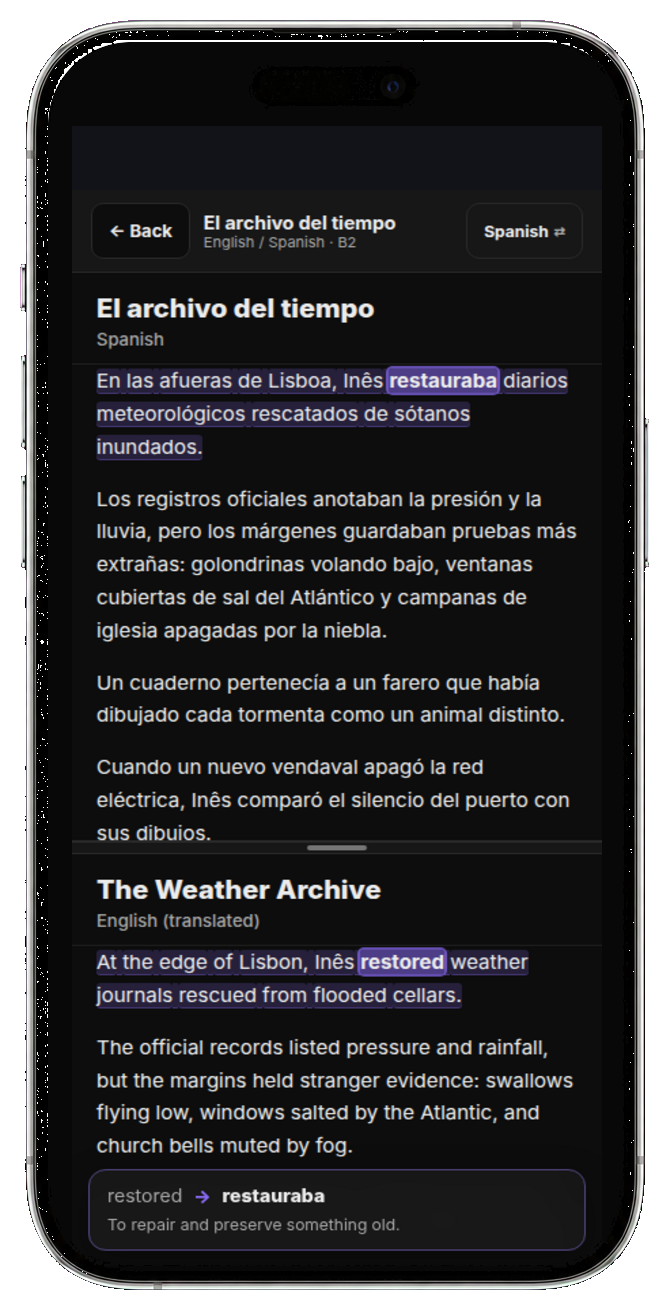
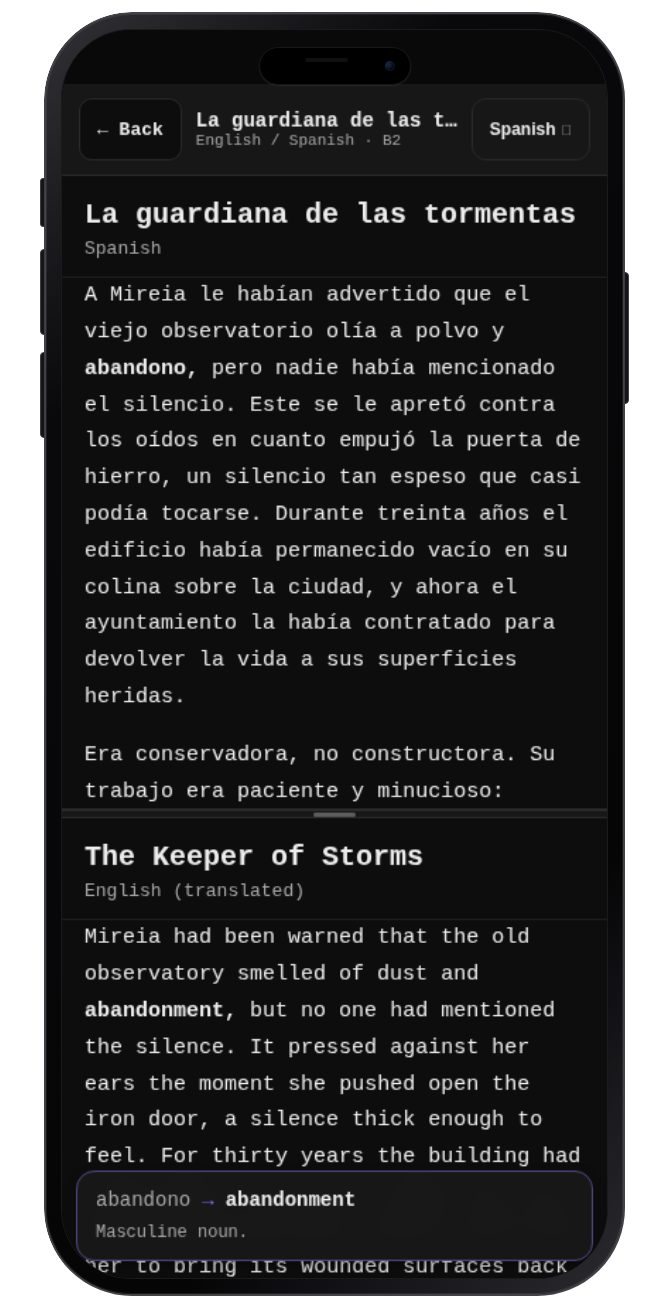
Refresh Tandem and social previews

diff --git a/index.html b/index.html
@@ -14,11 +14,15 @@
   <meta property="og:url" content="https://mobius-os.github.io/">
   <meta property="og:title" content="Möbius OS: Build the apps that fit your life">
   <meta property="og:description" content="Build useful personal apps, use them across phone and web, and improve the system with every loop.">
-  <meta property="og:image" content="https://mobius-os.github.io/assets/product/editor-continuity.png">
+  <meta property="og:image" content="https://mobius-os.github.io/assets/social-preview.png?v=20260716">
+  <meta property="og:image:width" content="1200">
+  <meta property="og:image:height" content="630">
+  <meta property="og:image:alt" content="Möbius OS with Atlas on the web and Tandem on an iPhone">
   <meta name="twitter:card" content="summary_large_image">
   <meta name="twitter:title" content="Möbius OS: Build the apps that fit your life">
   <meta name="twitter:description" content="Build useful personal apps, use them across phone and web, and improve the system with every loop.">
-  <meta name="twitter:image" content="https://mobius-os.github.io/assets/product/editor-continuity.png">
+  <meta name="twitter:image" content="https://mobius-os.github.io/assets/social-preview.png?v=20260716">
+  <meta name="twitter:image:alt" content="Möbius OS with Atlas on the web and Tandem on an iPhone">
   <link rel="preconnect" href="https://rsms.me/">
   <link rel="stylesheet" href="https://rsms.me/inter/inter.css">
   <link rel="stylesheet" href="style.css">
@@ -32,7 +36,7 @@
     "operatingSystem": "Docker, Linux, PWA",
     "description": "An open-source, self-hosted AI workspace where people and agents build useful apps and improve the system over time.",
     "url": "https://mobius-os.github.io/",
-    "image": "https://mobius-os.github.io/assets/product/editor-continuity.png",
+    "image": "https://mobius-os.github.io/assets/social-preview.png?v=20260716",
     "screenshot": "https://mobius-os.github.io/assets/product/editor-continuity.png",
     "codeRepository": "https://github.com/mobius-os/mobius",
     "license": "https://opensource.org/licenses/MIT",
@@ -136,7 +140,7 @@
       <div class="app-gallery">
         <article class="phone-story">
           <figure class="iphone-mockup showcase-phone">
-            <img src="assets/product/tandem-iphone.png" alt="Tandem showing a bilingual story with the word restored selected and translated" loading="lazy" width="669" height="1310">
+            <img src="assets/product/tandem-iphone.png" alt="Tandem showing a bilingual story with the word abandonment selected and translated" loading="lazy" width="669" height="1310">
           </figure>
           <p class="app-label">Tandem · Language learning</p>
           <h3>Read a richer story in two languages.</h3>

diff --git a/services/mobius_launch/app.py b/services/mobius_launch/app.py
@@ -119,6 +119,7 @@ os.makedirs(DATA_DIR, exist_ok=True)
 STATIC_DIR = os.path.join(os.path.dirname(__file__), "static")
 LOGO_FILENAME = "moebius.png"
 PREVIEW_FILENAME = "app-store.png"
+SOCIAL_PREVIEW_FILENAME = "social-preview.png"
 
 
 def static_asset_version(filename):
@@ -131,6 +132,7 @@ def static_asset_version(filename):
 
 LOGO_VERSION = static_asset_version(LOGO_FILENAME)
 PREVIEW_VERSION = static_asset_version(PREVIEW_FILENAME)
+SOCIAL_PREVIEW_VERSION = static_asset_version(SOCIAL_PREVIEW_FILENAME)
 
 app = Flask(__name__)
 
@@ -230,6 +232,16 @@ def moebius_logo():
 @app.get("/workspace-preview.png")
 def workspace_preview():
     return send_from_directory(STATIC_DIR, PREVIEW_FILENAME, mimetype="image/png", max_age=86400)
+
+
+@app.get("/social-preview.png")
+def social_preview():
+    return send_from_directory(
+        STATIC_DIR,
+        SOCIAL_PREVIEW_FILENAME,
+        mimetype="image/png",
+        max_age=86400,
+    )
 
 
 @app.before_request
@@ -2533,6 +2545,20 @@ LAYOUT = """
   <meta name="description" content="Launch a private Möbius AI workspace in a Railway account you control.">
   <link rel="canonical" href="{{ canonical_url }}">
   <meta name="theme-color" content="#0d0d0d">
+  <meta property="og:type" content="website">
+  <meta property="og:site_name" content="Möbius">
+  <meta property="og:url" content="{{ canonical_url }}">
+  <meta property="og:title" content="Möbius: Your own app-building workspace">
+  <meta property="og:description" content="Launch a private Möbius, then build and run personal software with capable agents.">
+  <meta property="og:image" content="{{ social_preview_url }}">
+  <meta property="og:image:width" content="1200">
+  <meta property="og:image:height" content="630">
+  <meta property="og:image:alt" content="Möbius app-building workspace on web and mobile">
+  <meta name="twitter:card" content="summary_large_image">
+  <meta name="twitter:title" content="Möbius: Your own app-building workspace">
+  <meta name="twitter:description" content="Launch a private Möbius, then build and run personal software with capable agents.">
+  <meta name="twitter:image" content="{{ social_preview_url }}">
+  <meta name="twitter:image:alt" content="Möbius app-building workspace on web and mobile">
   <title>Möbius: Your private AI workspace</title>
   <link rel="icon" type="image/png" href="{{ favicon_url }}">
   <link rel="apple-touch-icon" href="{{ favicon_url }}">
@@ -4061,6 +4087,11 @@ def render(body):
         body=body,
         favicon_url=logo_url(),
         canonical_url=PUBLIC_CANONICAL_URL + path("/"),
+        social_preview_url=(
+            PUBLIC_CANONICAL_URL
+            + path("/social-preview.png")
+            + f"?v={SOCIAL_PREVIEW_VERSION}"
+        ),
     )
 
 
